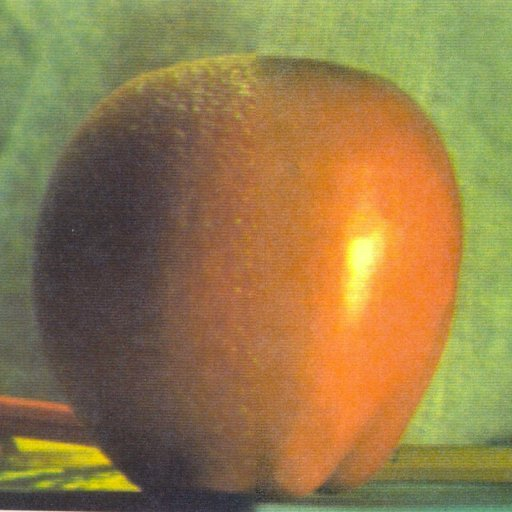
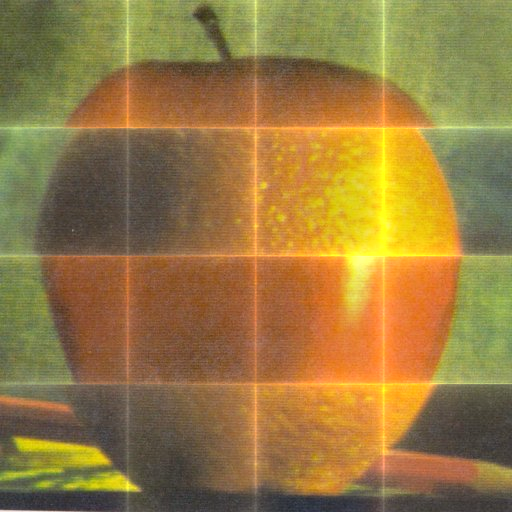
debugging

diff --git a/multi_band_blending_arb.py b/multi_band_blending_arb.py
@@ -6,56 +6,56 @@ import argparse
 
 
 def preprocess(imgs, sep):
-
+    cv2.imwrite('img_1.png', imgs[0])
+    cv2.imwrite('img_2.png', imgs[1])
     Shape = np.array(imgs[0].shape)
     if Shape[0]%sep != 0:
         print ("error: sep should be power of 2 error")
         sys.exit()
-    subs=[[np.zeros(Shape)]*sep]*sep
-    masks=subs
+    subs=[np.zeros(Shape) for i in range(sep*sep)]
+    masks=[np.zeros(Shape) for i in range(sep*sep)]
     shape=Shape[0]//sep
-    for indx, sub in enumerate(subs):
-        for indy, s in enumerate(sub):
-            s[indx*shape:(indx+1)*shape,indy*shape:(indy+1)*shape]=imgs[indx%2][indx*shape:(indx+1)*shape,indy*shape:(indy+1)*shape]
-            masks[indx][indy][indx*shape:(indx+1)*shape,indy*shape:(indy+1)*shape]=1
+    for ind, sub in enumerate(subs):
+        indx=ind%sep
+        indy=ind//sep
+        sub[indx*shape:(indx+1)*shape,indy*shape:(indy+1)*shape]=imgs[ind%2][indx*shape:(indx+1)*shape,indy*shape:(indy+1)*shape]
+        masks[ind][indx*shape:(indx+1)*shape,indy*shape:(indy+1)*shape]=1
+        temp=np.ndarray.copy(sub)
+        # temp[temp==1]=255
+        cv2.imwrite('temp_' + str(ind) +'.png', temp)
     return subs, masks
 
 def GaussianPyramid(masks, leveln):
     # return GPs: [imgs][levs]
     GPs=[]
-    for rmask in masks:
-        rGPs=[] 
-        for mask in rmask:
-            GP = [mask]
-            for i in range(leveln - 1):
-                GP.append(cv2.pyrDown(GP[i]))
-            rGPs.append(GP)
-        GPs.append(rGPs)
+    for mask in masks:
+        GP = [mask]
+        for i in range(leveln - 1):
+            GP.append(cv2.pyrDown(GP[i]))
+        GPs.append(GP)
     return GPs
 
 
 def LaplacianPyramid(imgs, leveln):
     # return LPs: [imgs][levs]
     LPs=[]
-    for rimg in imgs:
-        for img in rimg:
-            rLPs=[]
-            LP = []
-            for i in range(leveln - 1):
-                next_img = cv2.pyrDown(img)
-                LP.append(img - cv2.pyrUp(next_img, img.shape[1::-1]))
-                img = next_img
-            LP.append(img)
-            rLPs.append(LP)
-        LPs.append(rLPs)
+    for img in imgs:
+        LP = []
+        for i in range(leveln - 1):
+            next_img = cv2.pyrDown(img)
+            LP.append(img - cv2.pyrUp(next_img, img.shape[1::-1]))
+            img = next_img
+        LP.append(img)
+        LPs.append(LP)
     return LPs
 
 
 def blend_pyramid(LPs, MPs):
     blended = []
-    for lev, _ in enumerate(MPs[0][0]):
-        for j, M in enumerate(MPs[:][:][lev]):
-            Tot_M+=M[lev]*LPs[j][lev]
+    for lev in range(len(MPs[0])):
+        Tot_M=np.zeros(LPs[0][lev].shape)
+        for ind in range(len(MPs)):
+            Tot_M+=np.array(MPs[ind][lev]*LPs[ind][lev])
         blended.append(Tot_M)
     return blended
 
@@ -121,7 +121,7 @@ if __name__ == '__main__':
 
     # print('args: ', args)
     
-    sep=2
+    sep=4
     folder='/Users/chuanborchueh/Documents/Coding/multi-band-blending-python/'
     img1 = cv2.imread('samples/l.jpg')
     img2 = cv2.imread('samples/r.jpg')
